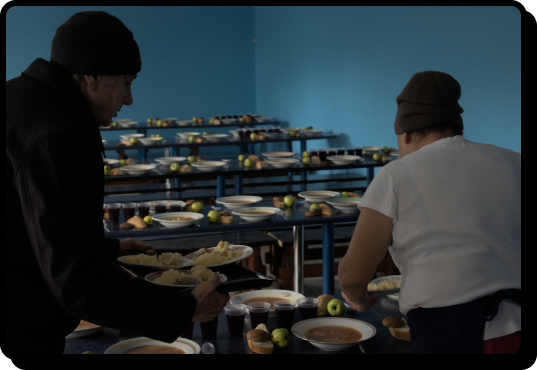
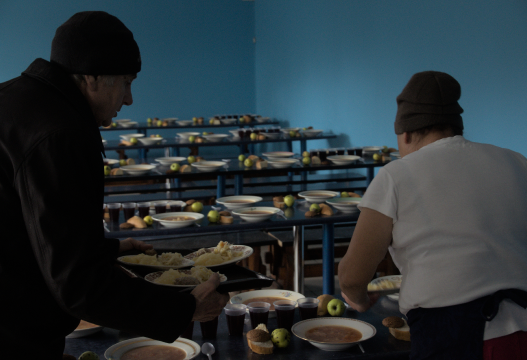
have finished structure donate section of home

diff --git a/#source/style.scss b/#source/style.scss
@@ -135,10 +135,11 @@ body {
     border: 3px solid #000;
     box-shadow: 10px 10px 0px #000;
     border-radius: 6px;
+    padding: 8px 16px;
 }
 
 .shaded-img {
-    border: 3px solid #000;
+    outline: 6px solid #000;
     box-shadow: 10px 10px 0px #000;
     border-radius: 16px;
 }
@@ -175,16 +176,21 @@ body {
     &__button--header {
         color: black;
         background: #e28484;
-        padding: 8px 16px;
+        cursor: pointer;
+        &:hover {
+            color: black;
+        }
     }
 
     &__button--footer {
         color: #000;
         background: #e28484;
-        padding: 8px 16px;
+        cursor: pointer;
+        &:hover {
+            color: black;
+        }
     }
 }
-
 
 .page {
     &__history-block {
@@ -194,6 +200,12 @@ body {
     &__news-block {
         padding-top: 45px;
         padding-bottom: 11px;
+    }
+
+    &__donate-block {
+        margin-top: 11px;
+        margin-bottom: 24px;
+        padding: 90px 0 54px;
     }
 }
 
@@ -221,7 +233,11 @@ body {
     }
 
     &__btn {
-        padding: 8px 16px;
+        color: black;
+        cursor: pointer;
+        &:hover {
+            color: black;
+        }
     }
 }
 
@@ -247,15 +263,74 @@ body {
         min-height: 396px;
     }
 
-    &__content > div:nth-child(2)  {
+    &__content > div:nth-child(2) {
         margin-bottom: 27px;
     }
 
     &__btn {
-        padding: 8px 16px;
+        color: black;
+        cursor: pointer;
+        display: inline-block;
+        &:hover {
+            color: black;
+        }
     }
 }
 
+// Donate Home section
+
+.donate-block {
+    &__content {
+    }
+
+    &__image {
+        position: relative;
+        &::before {
+            content: url(../img/home/section_donate/bg-up-el.png);
+            position: absolute;
+            z-index: -1;
+            top: -30%;
+            left: 0;
+        }
+
+        &::after {
+            content: url(../img/home/section_donate/bg-low-el.png);
+            position: absolute;
+            z-index: -1;
+            bottom: -50%;
+            left: 50%;
+        }
+    }
+
+    &__text-content {
+    }
+}
+.don-cont {
+    & > *:not(:last-child) {
+        margin-bottom: 17px;
+    }
+    &__heading {
+        font-weight: 600;
+        font-size: 48px;
+        line-height: 100%;
+        letter-spacing: -0.06em;
+    }
+
+    &__text {
+        line-height: calc(24 / 16) * 100%;
+        font-weight: 400;
+    }
+
+    &__btn {
+        display: inline-block;
+        cursor: pointer;
+        color: #000;
+
+        &:hover {
+            color: #000;
+        }
+    }
+}
 
 // footer
 

diff --git a/index.html b/index.html
@@ -72,8 +72,8 @@
                             for
                             every sponsor and benefactor...
                         </div>
-                        <button class="hist-cont__btn shaded">Our History <i
-                                class="fa-solid fa-arrow-right-long"></i></button>
+                        <a href="" class="hist-cont__btn shaded">Our History <i
+                                class="fa-solid fa-arrow-right-long"></i></a>
                     </div>
                     <div class="history-block__video-contents col-xl-6 align-self-center">
                         <img src="img/home/section_history/DSC_8887 1.png" class="shaded-img" alt="zaglushka">
@@ -108,10 +108,30 @@
                             <img src="img/home/section_news/card6.png" class="shaded-img" alt="news-sixth-card">
                         </div>
                     </div>
-                    <button class="news-block__btn shaded">News <i class="fa-solid fa-arrow-right-long"></i></button>
+                    <a class="news-block__btn shaded">News <i class="fa-solid fa-arrow-right-long"></i></a>
+                </div>
+            </section>
+            <section class="page__donate-block donate-block _container">
+                <div class="donate-block__content row">
+                    <div class="donate-block__image col-xl-6">
+                        <img src="img/home/section_donate/donate.png" class="shaded-img" alt="donate-card-image">
+                    </div>
+                    <div class="donate-block__text-content don-cont col-xl-6">
+                        <div class="don-cont__heading">
+                            WE ASK ALL PEOPLE OF GOOD WILL TO PARTICIPATE IN CHARITY ACTIVITIES IN THE CITY OF SUMY, IN
+                            UKRAINE!
+                        </div>
+                        <div class="don-cont__text">
+                            Your smallest, modest donation will be spent on feeding beggars, helping low-income, large
+                            families, elderly people on the verge of poverty, disabled people, refugees...
+                        </div>
+                        <a href="#" class="don-cont__btn shaded">Donate <i class="fa-solid fa-arrow-right-long"></i></a>
+                    </div>
                 </div>
             </section>
         </main>
+
+
         <footer class="footer">
             <section class="footer__container _container">
                 <nav class="navbar navbar-expand-lg">

diff --git a/css/style.css b/css/style.css
@@ -137,10 +137,11 @@ body {
   border: 3px solid #000;
   box-shadow: 10px 10px 0px #000;
   border-radius: 6px;
+  padding: 8px 16px;
 }
 
 .shaded-img {
-  border: 3px solid #000;
+  outline: 6px solid #000;
   box-shadow: 10px 10px 0px #000;
   border-radius: 16px;
 }
@@ -166,12 +167,18 @@ body {
 .menu__button--header {
   color: black;
   background: #e28484;
-  padding: 8px 16px;
+  cursor: pointer;
+}
+.menu__button--header:hover {
+  color: black;
 }
 .menu__button--footer {
   color: #000;
   background: #e28484;
-  padding: 8px 16px;
+  cursor: pointer;
+}
+.menu__button--footer:hover {
+  color: black;
 }
 
 .page__history-block {
@@ -181,6 +188,11 @@ body {
 .page__news-block {
   padding-top: 45px;
   padding-bottom: 11px;
+}
+.page__donate-block {
+  margin-top: 11px;
+  margin-bottom: 24px;
+  padding: 90px 0 54px;
 }
 
 .history-block__text-content > *:not(:last-child) {
@@ -196,7 +208,11 @@ body {
   line-height: 150%;
 }
 .hist-cont__btn {
-  padding: 8px 16px;
+  color: black;
+  cursor: pointer;
+}
+.hist-cont__btn:hover {
+  color: black;
 }
 
 .news-block__heading {
@@ -219,7 +235,51 @@ body {
   margin-bottom: 27px;
 }
 .news-block__btn {
-  padding: 8px 16px;
+  color: black;
+  cursor: pointer;
+  display: inline-block;
+}
+.news-block__btn:hover {
+  color: black;
+}
+
+.donate-block__image {
+  position: relative;
+}
+.donate-block__image::before {
+  content: url(../img/home/section_donate/bg-up-el.png);
+  position: absolute;
+  z-index: -1;
+  top: -30%;
+  left: 0;
+}
+.donate-block__image::after {
+  content: url(../img/home/section_donate/bg-low-el.png);
+  position: absolute;
+  z-index: -1;
+  bottom: -50%;
+  left: 50%;
+}
+.don-cont > *:not(:last-child) {
+  margin-bottom: 17px;
+}
+.don-cont__heading {
+  font-weight: 600;
+  font-size: 48px;
+  line-height: 100%;
+  letter-spacing: -0.06em;
+}
+.don-cont__text {
+  line-height: 150%;
+  font-weight: 400;
+}
+.don-cont__btn {
+  display: inline-block;
+  cursor: pointer;
+  color: #000;
+}
+.don-cont__btn:hover {
+  color: #000;
 }
 
 .footer {
